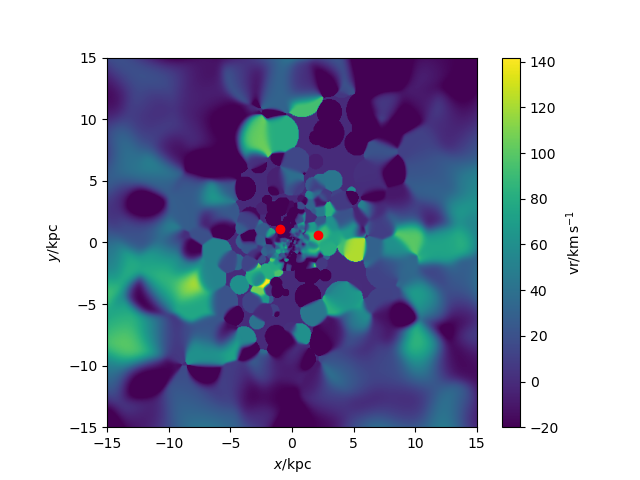
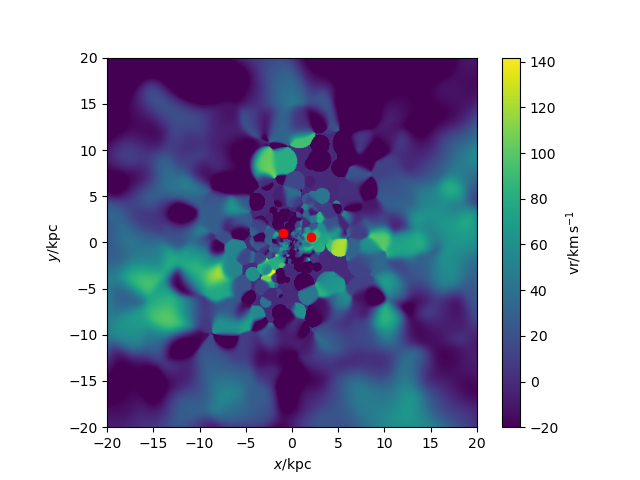
axis updated

diff --git a/r320/galaxy320_iongas.py b/r320/galaxy320_iongas.py
@@ -19,7 +19,7 @@ pynbody.analysis.angmom.faceon(s)
 GasFilter = pynbody.filt.HighPass('temp','15848 K')
 
 #creating image to show velocity of ionised gas
-sph.image(s.g[GasFilter],qty="vr",vmin=-20,width=30,denoise=True,approximate_fast=False,log=False)
+sph.image(s.g[GasFilter],qty="vr",vmin=-20,width=40,denoise=True,approximate_fast=False,log=False)
 
 #function to find BH
 def findBH(s):

diff --git a/r320/galaxy320_temp.py b/r320/galaxy320_temp.py
@@ -15,7 +15,7 @@ s.physical_units()
 pynbody.analysis.angmom.faceon(s)
 
 #creating slice to show gas temp
-sph.image(s.g,qty="temp",width=30,denoise=True,approximate_fast=False,log=True)
+sph.image(s.g,qty="temp",width=40,denoise=True,approximate_fast=False,log=True)
 
 #function to find BH
 def findBH(s):

diff --git a/r320/galaxy320_velocity.py b/r320/galaxy320_velocity.py
@@ -15,7 +15,7 @@ s.physical_units()
 pynbody.analysis.angmom.faceon(s)
 
 #creating gas velocity plot
-sph.image(s.g,qty="vr",width=30,denoise=True,approximate_fast=False,log=False)
+sph.image(s.g,qty="vr",width=40,denoise=True,approximate_fast=False,log=False)
 
 #function to find BH
 def findBH(s):

diff --git a/r320/galaxy320_dens.py b/r320/galaxy320_dens.py
@@ -13,7 +13,7 @@ s.physical_units()
 pynbody.analysis.angmom.faceon(s)
 
 #creating gas density slice
-sph.image(s.g,qty="rho",units="g cm^-3",width=30)
+sph.image(s.g,qty="rho",units="g cm^-3",width=40)
 
 #function to find BH
 def findBH(s):
